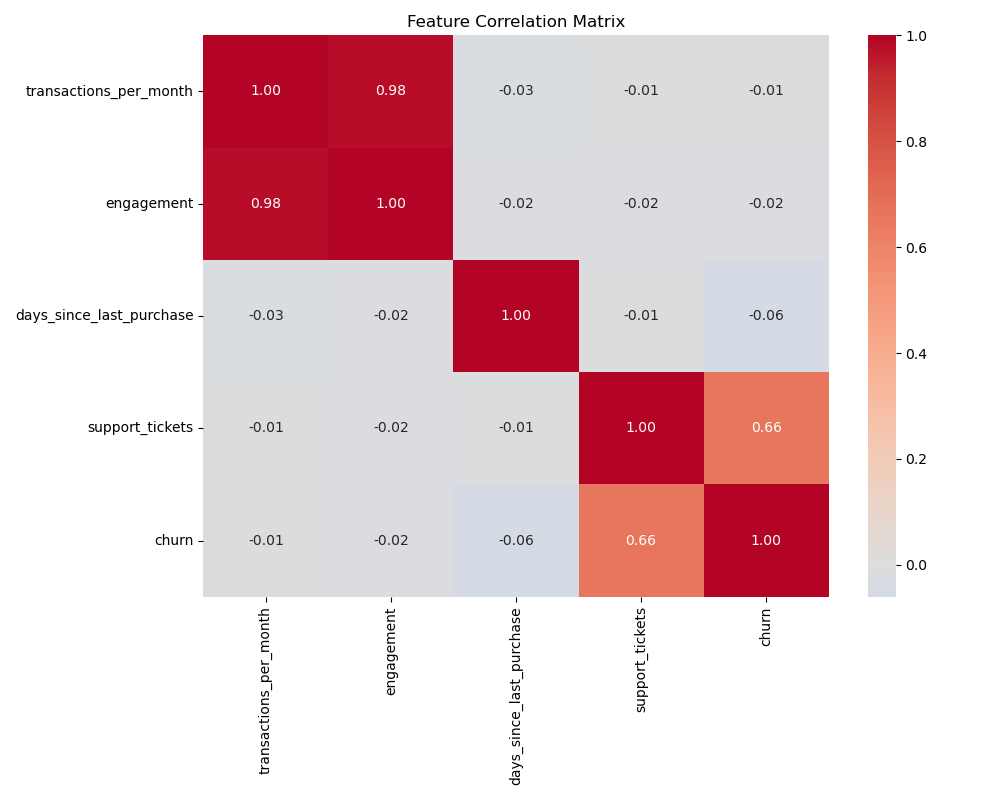
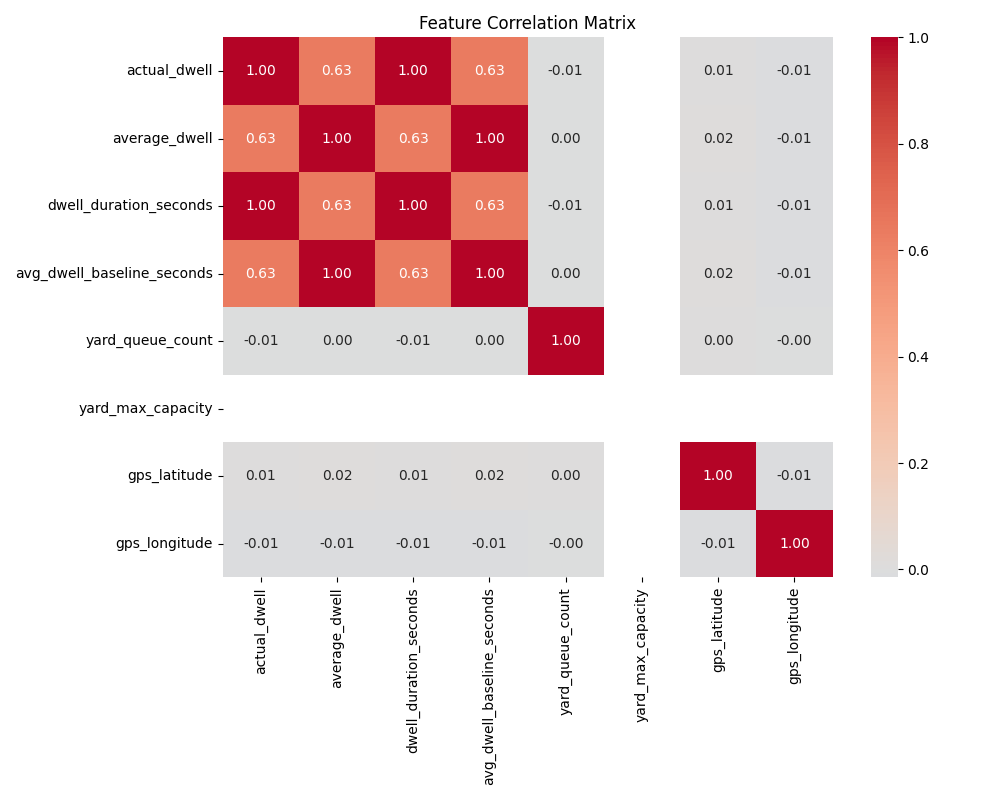
feat: add correlation and relationship analysis

diff --git a/correlation_analysis.py b/correlation_analysis.py
@@ -1,0 +1,113 @@
+"""
+Correlation & Relationship Analysis
+===================================
+Assignment 2.29
+
+Problem Context (Logistics Domain)
+----------------------------------
+Analyze relationships between operational metrics (like yard_queue_count, actual_dwell, etc.)
+and delivery delays (dwell_duration_seconds). Ensure we distinguish between metrics that merely 
+move together versus those that have a causal relationship.
+"""
+
+import pandas as pd
+import seaborn as sns
+import matplotlib.pyplot as plt
+import json
+import os
+
+# Create output directory if it doesn't exist
+os.makedirs('output', exist_ok=True)
+
+# Load dataset
+df = pd.read_csv("data/cascading_logistics_telemetry.csv")
+numeric_df = df.select_dtypes(include='number')
+
+print("=" * 60)
+print("Correlation & Relationship Analysis - Logistics Telemetry")
+print("=" * 60)
+
+# -------------------------------------------------------------
+# Task 1: Compute Pearson and Spearman Correlation
+# -------------------------------------------------------------
+print("\nTask 1: Compute Pearson and Spearman Correlation")
+print("-" * 60)
+
+# Pearson (linear relationships)
+pearson_corr = numeric_df.corr(method='pearson')
+
+# Spearman (monotonic, robust to outliers)
+spearman_corr = numeric_df.corr(method='spearman')
+
+# Compare which correlations differ for the target variable 'dwell_duration_seconds'
+comparison = pd.DataFrame({
+    'pearson': pearson_corr['dwell_duration_seconds'],
+    'spearman': spearman_corr['dwell_duration_seconds']
+})
+print(comparison)
+
+# -------------------------------------------------------------
+# Task 2: Visualize Correlation Heatmap
+# -------------------------------------------------------------
+print("\nTask 2: Visualize Correlation Heatmap")
+print("-" * 60)
+
+fig, ax = plt.subplots(figsize=(10, 8))
+sns.heatmap(pearson_corr, annot=True, cmap='coolwarm', center=0, ax=ax, fmt=".2f")
+ax.set_title('Feature Correlation Matrix')
+plt.tight_layout()
+heatmap_path = 'output/correlation_heatmap.png'
+plt.savefig(heatmap_path)
+print(f"Heatmap saved to {heatmap_path}")
+
+# -------------------------------------------------------------
+# Task 3: Identify Strongly Correlated Pairs
+# -------------------------------------------------------------
+print("\nTask 3: Identify Strongly Correlated Pairs")
+print("-" * 60)
+
+# Flatten and find strong correlations
+corr_flat = pearson_corr.unstack()
+strong = corr_flat[corr_flat.abs() > 0.7].sort_values(ascending=False)
+
+# Exclude self-correlation (r=1.0)
+strong_pairs = strong[strong != 1.0].head(10)
+print(strong_pairs)
+
+# -------------------------------------------------------------
+# Task 4: Business Interpretation
+# -------------------------------------------------------------
+print("\nTask 4: Business Interpretation")
+print("-" * 60)
+
+# For each strong correlation, reason about causation
+analysis = {
+    'actual_dwell <-> dwell_duration_seconds': {
+        'correlation': round(pearson_corr.loc['actual_dwell', 'dwell_duration_seconds'], 2),
+        'possible_directions': [
+            'actual_dwell -> dwell_duration_seconds (time spent at facility directly translates to total delay)',
+            'dwell_duration_seconds -> actual_dwell (overall delay constraints force longer facility dwells)',
+            'operational_inefficiency -> both (underlying bottleneck causes both)'
+        ],
+        'data_indicates': 'These variables are mathematically linked; actual_dwell is practically a component of dwell_duration_seconds. High correlation is expected due to collinearity, not distinct causation.',
+        'action': 'Drop one of the variables during modeling to avoid multicollinearity.'
+    }
+}
+print(json.dumps(analysis, indent=2))
+
+# -------------------------------------------------------------
+# Task 5: Feature Selection Based on Correlation
+# -------------------------------------------------------------
+print("\nTask 5: Feature Selection Based on Correlation")
+print("-" * 60)
+
+# High correlation means redundancy - keep the more interpretable feature
+# 'actual_dwell' and 'dwell_duration_seconds' are highly correlated. We keep 'dwell_duration_seconds' as our target.
+df_features = numeric_df.copy()
+
+if 'actual_dwell' in df_features.columns:
+    print(f"Dropping 'actual_dwell' as it is redundant with 'dwell_duration_seconds'.")
+    df_features = df_features.drop('actual_dwell', axis=1)
+
+print("\nUpdated Feature Correlation Matrix (Partial):")
+print(df_features.corr()[['dwell_duration_seconds']])
